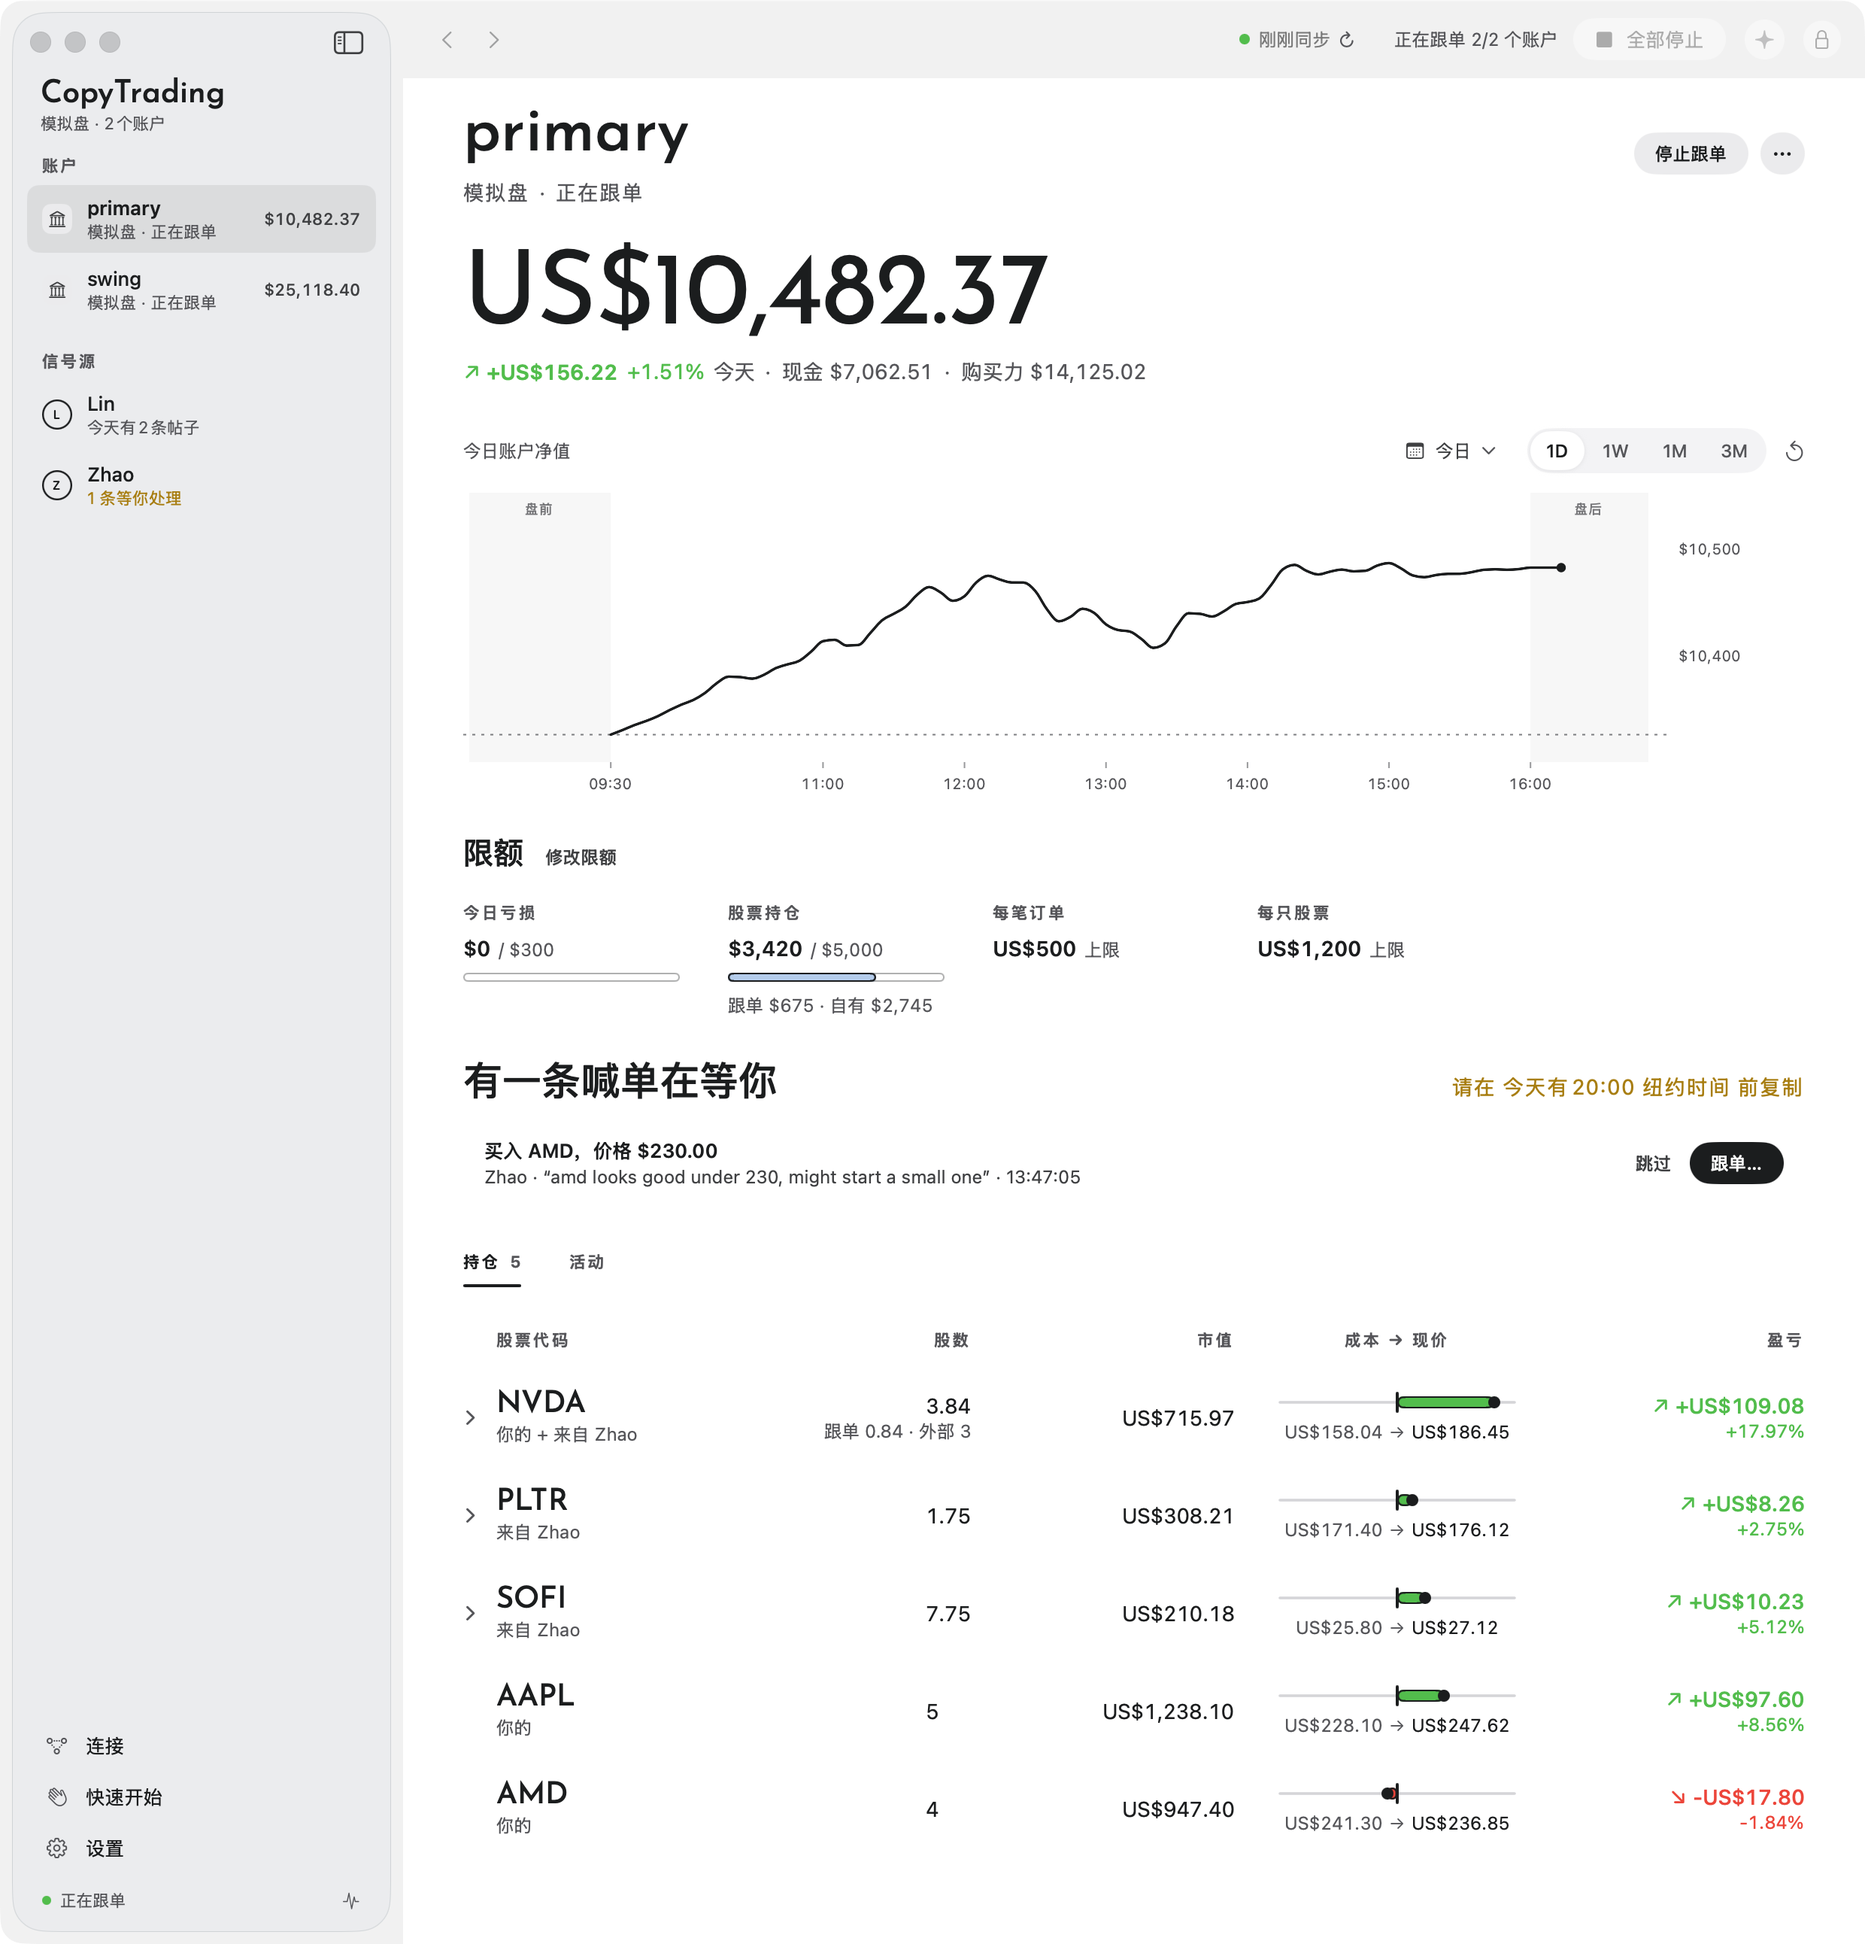
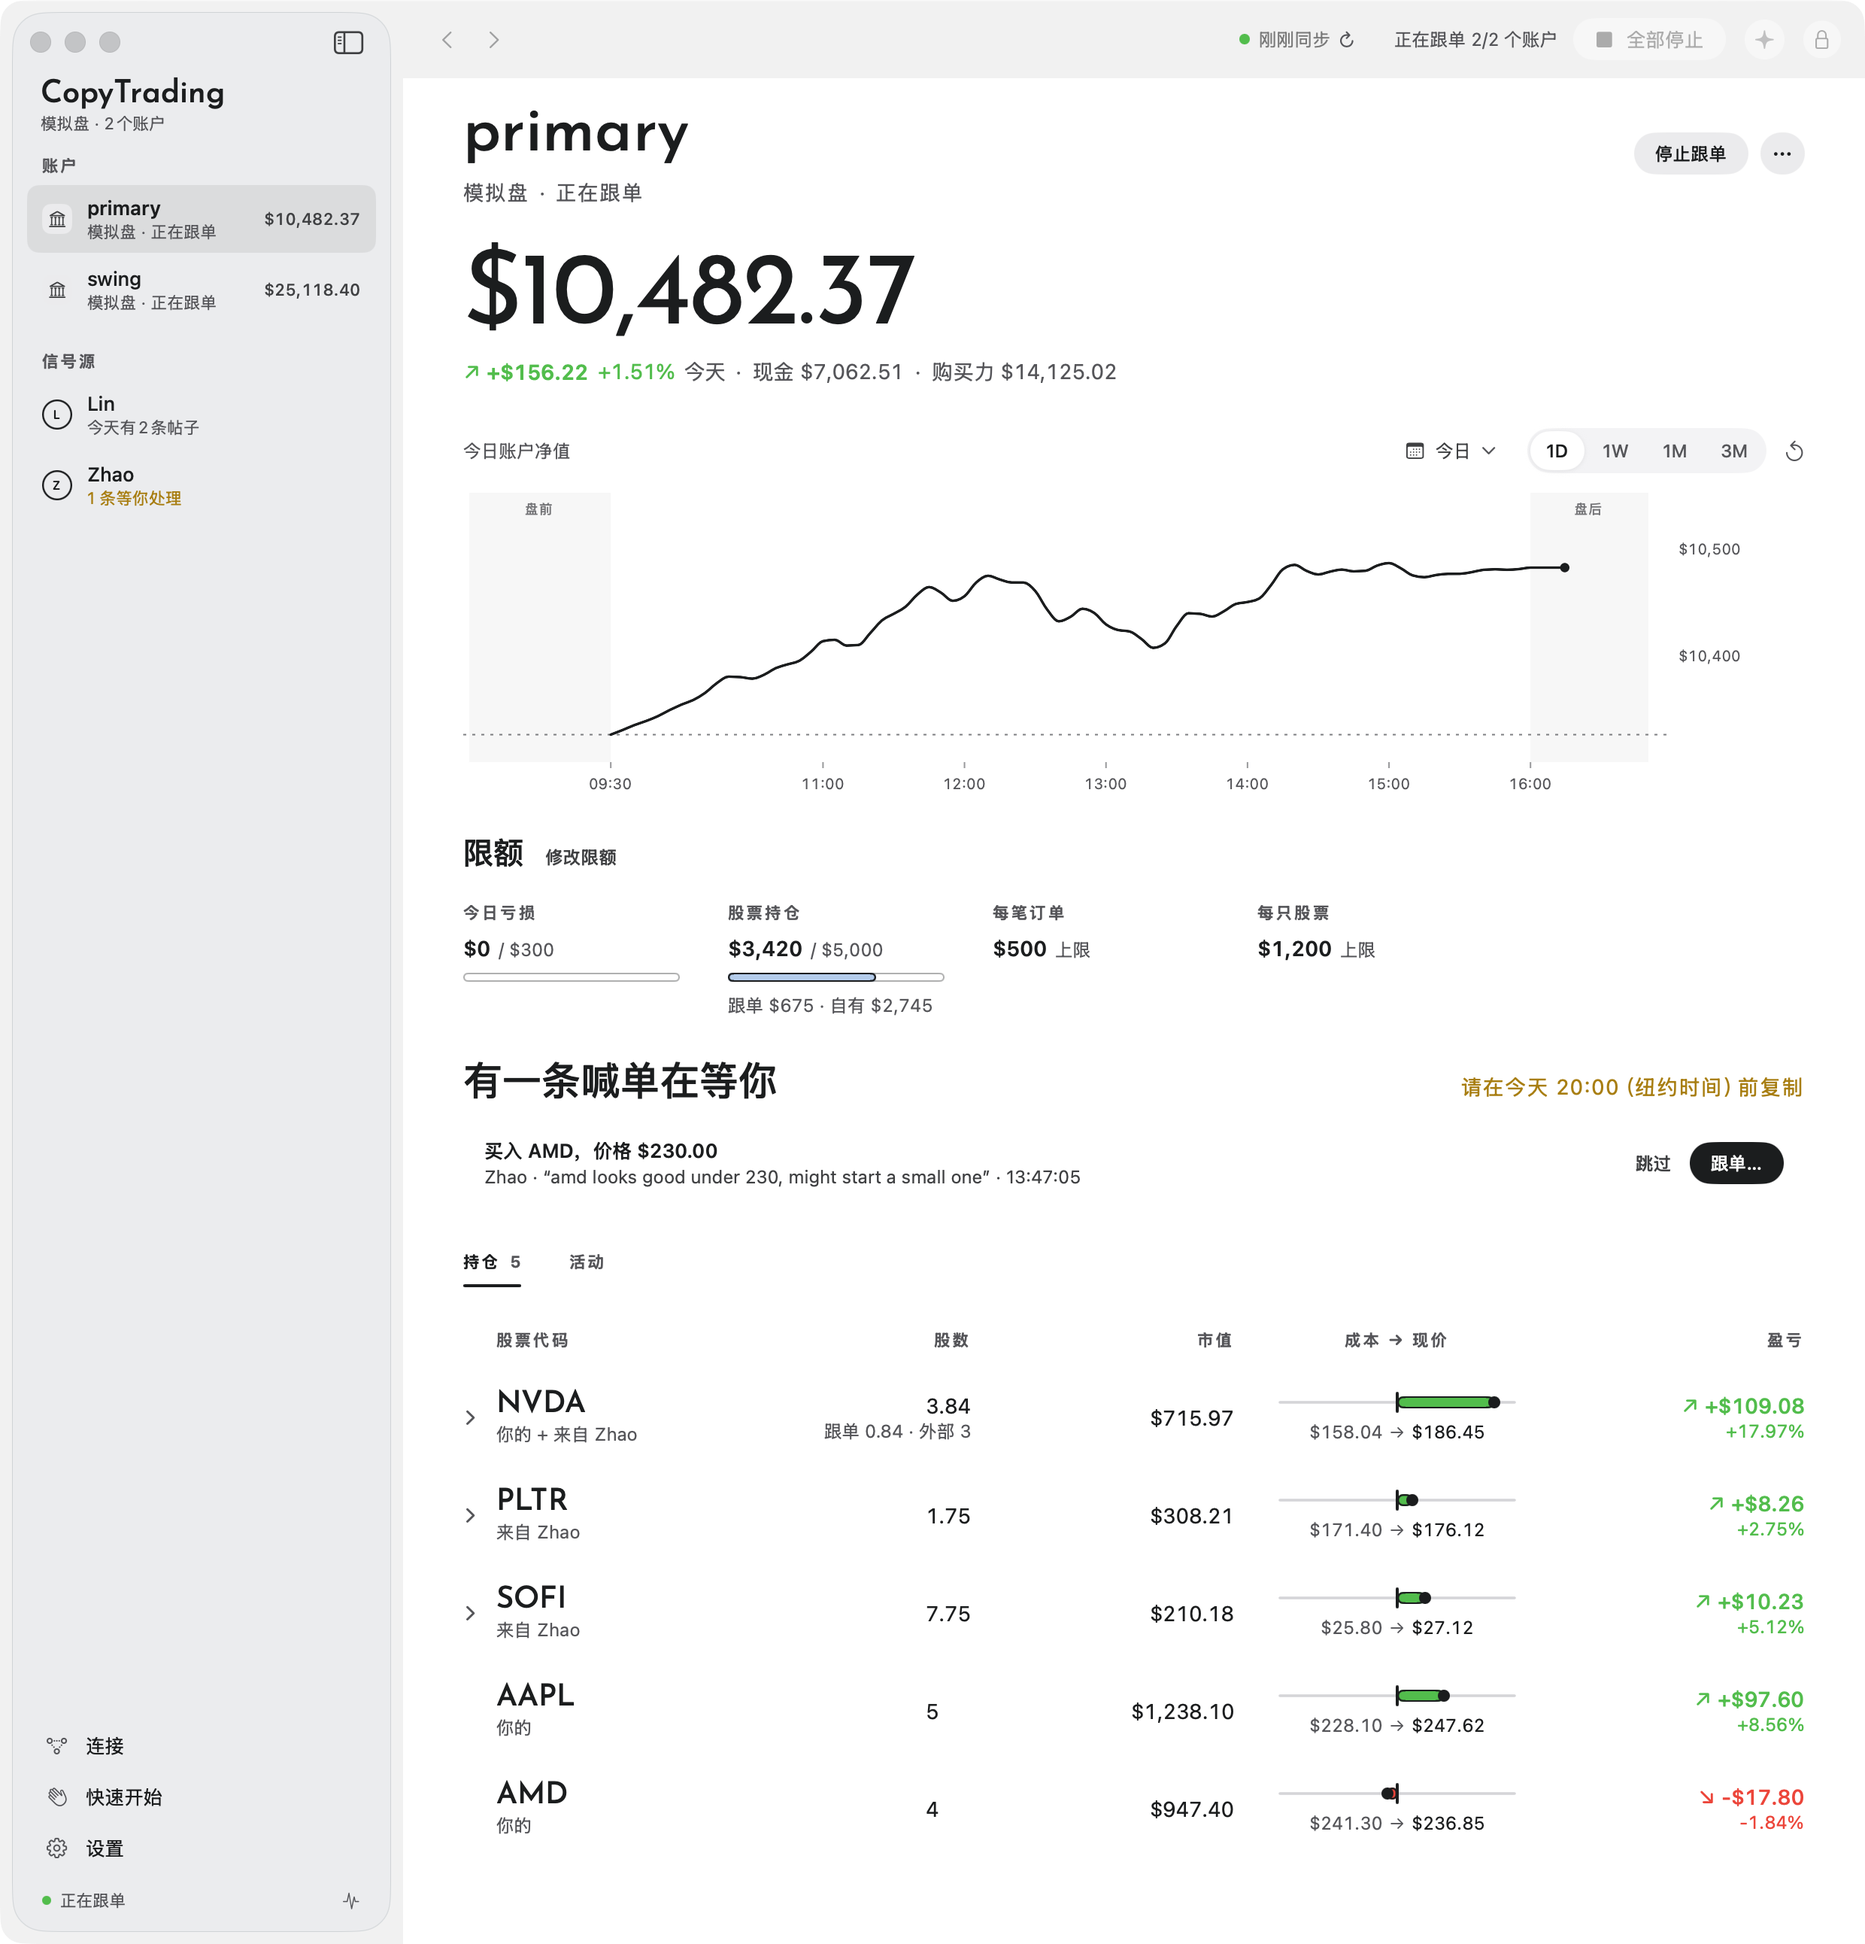
Chinese screens keep no English, and money always reads as $ (#93)
Fixes the 简体中文 problems the README screenshots showed:

- **Ignored posts**: an ignored post's outcome on the guru page reads
已忽略 instead of the raw English "Ignored". `Reason` now knows the
`ignored` status.
- **Holdings line**: one sentence per count ("Holding $650 in 3 stocks
from these calls" / "这些信号目前持有 $650，共 3 只股票"), so "3stocks" is gone.
- **Example actions**: the action words come from
`TradingInstructionAction.title`, reading 买入 / 减仓 / 清仓 instead of BUY /
REDUCE / CLOSE. The comparison row uses the same titles.
- **Deadlines**: clock and zone are passed separately, so each language
orders them its own way. English is unchanged ("8:00 PM ET today");
Chinese reads "请在今天 20:00（纽约时间）前复制".
- **Currency**: `MoneyText`, `PositionCostMark` and `AccountFeedRow`
format amounts as strings, the way `Humanize.usd` does. A Chinese page
now shows "$" everywhere, never "US$".
- **Screenshots**: the four `docs/assets/zh/*.png` are rendered again
from these sources and checked by eye. The English images are unchanged
because no English text changed.

Checks run: a new contract check reads each of these in Chinese
(`theGuruPageReadsInChinese`). The swift build with
`-strict-concurrency=complete -warnings-as-errors`, `make lint-swift`,
`make desktop-tests`, the catalog tests and `uvx pre-commit run
--all-files` all pass.

🤖 Generated with [Claude Code](https://claude.com/claude-code)
https://claude.ai/code/session_01FSmZjkTWfnTTjHLmHvuQGL

---------

diff --git a/app/Tests/CopyTradingContractTests/ActivityCardTests.swift b/app/Tests/CopyTradingContractTests/ActivityCardTests.swift
@@ -21,6 +21,34 @@ func runActivityCardTests() throws {
     try activityShowsOnlyTheChosenAccount()
     try aSellWithNoPriceReadsAsAtTheMarket()
     try yesterdaysPostsStopCountingAsTodayAtMidnight()
+    try theGuruPageReadsInChinese()
+}
+
+/// In 简体中文 the guru page and its examples keep no English: an ignored post, the holdings line,
+/// an example's action, and a waiting call's deadline in Chinese word order.
+@MainActor
+private func theGuruPageReadsInChinese() throws {
+    let language = AppLanguagePreference.shared
+    let original = language.language
+    defer { language.select(original) }
+    language.select(.simplifiedChinese)
+
+    let ignored = try SourceActivityBuilder().decision("ignore").destination("primary", status: "ignored").build()
+    let outcome = GuruAccountOutcome.outcomes(of: ignored, skipped: false).map(\.summary)
+    try #require(outcome == ["已忽略"], "an ignored post read \(outcome)")
+
+    let holding = L10n.string("Holding %@ in %lld stocks from these calls", "$650", Int64(3))
+    try #require(holding == "这些信号目前持有 $650，共 3 只股票", "the holdings line read \(holding)")
+
+    let actions = TradingInstructionAction.allCases.map(\.title)
+    try #require(actions == ["买入", "减仓", "清仓"], "an example's actions read \(actions)")
+
+    let deadline = WaitingCall.endOfTradingDay(of: try Date("2026-10-05T15:00:00Z", strategy: .iso8601))
+    let morning = try Date("2026-10-05T15:00:00Z", strategy: .iso8601)
+    let zone = TimeZone(identifier: "America/New_York")!
+    let chinese = Locale(identifier: "zh-Hans")
+    let copyBy = L10n.string("Copy by %@", TradingDeadlineText.text(deadline, now: morning, zone: zone, locale: chinese))
+    try #require(copyBy == "请在今天 20:00（纽约时间）前复制", "the deadline read \(copyBy)")
 }
 
 /// A count of today's posts asks about the moment it is drawn, so an app left open overnight stops

diff --git a/app/Sources/CopyTrading/Features/Activity/TradingDeadlineText.swift b/app/Sources/CopyTrading/Features/Activity/TradingDeadlineText.swift
@@ -11,15 +11,15 @@ enum TradingDeadlineText {
         calendar.timeZone = zone
         let clock = deadline.formatted(
             Date.FormatStyle(date: .omitted, time: .shortened, locale: locale, calendar: calendar, timeZone: zone))
-        let time = "\(clock) \(AppTime.shortName(zone, locale: locale))"
+        let zoneName = AppTime.shortName(zone, locale: locale)
         if calendar.isDate(deadline, inSameDayAs: now) {
-            return L10n.string("%@ today", time)
+            return L10n.string("Deadline today: %@ %@", clock, zoneName)
         }
         if let tomorrow = calendar.date(byAdding: .day, value: 1, to: now), calendar.isDate(deadline, inSameDayAs: tomorrow) {
-            return L10n.string("%@ tomorrow", time)
+            return L10n.string("Deadline tomorrow: %@ %@", clock, zoneName)
         }
         let day = deadline.formatted(
             Date.FormatStyle(locale: locale, calendar: calendar, timeZone: zone).weekday(.abbreviated))
-        return "\(day) \(time)"
+        return L10n.string("Deadline on a weekday: %@ %@ %@", day, clock, zoneName)
     }
 }

diff --git a/app/Sources/CopyTrading/DesignSystem/MoneyText.swift b/app/Sources/CopyTrading/DesignSystem/MoneyText.swift
@@ -26,7 +26,7 @@ struct MoneyText: View {
     @ViewBuilder private var content: some View {
         switch style {
         case .amount:
-            Text(value, format: amountFormat)
+            Text(value.formatted(amountFormat))
                 .font(font)
                 .monospacedDigit()
                 .contentTransition(.numericText(value: value.doubleValue))
@@ -37,7 +37,7 @@ struct MoneyText: View {
                         .imageScale(.small)
                         .fontWeight(.semibold)
                 }
-                Text(value, format: .currency(code: "USD").sign(strategy: .always(showZero: false)))
+                Text(value.formatted(.currency(code: "USD").sign(strategy: .always(showZero: false))))
                     .contentTransition(.numericText(value: value.doubleValue))
             }
             .font(font)

diff --git a/app/Sources/CopyTrading/Features/People/GuruHoldingsLine.swift b/app/Sources/CopyTrading/Features/People/GuruHoldingsLine.swift
@@ -29,9 +29,8 @@ struct GuruHoldingsLine: View {
             HStack(alignment: .firstTextBaseline, spacing: 10) {
                 Text(
                     L10n.string(
-                        "Holding %@ in %@ from these calls",
-                        cost.formatted(.currency(code: "USD").precision(.fractionLength(0))),
-                        Humanize.count(stocks, "stock"))
+                        stocks == 1 ? "Holding %@ in 1 stock from these calls" : "Holding %@ in %lld stocks from these calls",
+                        cost.formatted(.currency(code: "USD").precision(.fractionLength(0))), Int64(stocks))
                 )
                 .foregroundStyle(Palette.secondaryInk)
                 if cost > 0 {

diff --git a/app/Sources/CopyTrading/Features/Accounts/PositionCostMark.swift b/app/Sources/CopyTrading/Features/Accounts/PositionCostMark.swift
@@ -48,12 +48,12 @@ struct PositionCostMark: View {
             }
             .frame(height: 14)
             HStack(spacing: 4) {
-                Text(cost, format: .currency(code: "USD"))
+                Text(Humanize.usd(cost))
                     .foregroundStyle(Palette.tertiaryInk)
                 Image(systemName: "arrow.right")
                     .imageScale(.small)
                     .foregroundStyle(Palette.tertiaryInk)
-                Text(price, format: .currency(code: "USD"))
+                Text(Humanize.usd(price))
                     .foregroundStyle(Palette.ink)
             }
             .font(DesignTokens.caption)

diff --git a/app/Sources/CopyTrading/Features/Connections/ExampleEditorSection.swift b/app/Sources/CopyTrading/Features/Connections/ExampleEditorSection.swift
@@ -40,7 +40,7 @@ struct ExampleEditorSection: View {
             SheetRow(title: L10n.string("Expected action")) {
                 SheetChoices(
                     label: L10n.string("Expected action"),
-                    choices: TradingInstructionAction.allCases.map { ($0, Humanize.code($0.rawValue)) },
+                    choices: TradingInstructionAction.allCases.map { ($0, $0.title) },
                     selection: $example.expectedAction, identifier: "example.action")
             }
             Grid(alignment: .leading, horizontalSpacing: 24, verticalSpacing: 0) {

diff --git a/app/Sources/CopyTrading/Features/Connections/ExampleComparisonRow.swift b/app/Sources/CopyTrading/Features/Connections/ExampleComparisonRow.swift
@@ -33,7 +33,7 @@ struct ExampleComparisonRow: View {
                     Text(
                         L10n.string(
                             "%@ %@ · fraction %@",
-                            L10n.string(Humanize.code(example.expectedAction.rawValue)), example.expectedSymbol,
+                            example.expectedAction.title, example.expectedSymbol,
                             example.expectedFraction.map(Humanize.fraction) ?? L10n.string("none")
                         )
                     )

diff --git a/app/Sources/CopyTrading/Features/Connections/TradingInstructionAction+Title.swift b/app/Sources/CopyTrading/Features/Connections/TradingInstructionAction+Title.swift
@@ -1,0 +1,12 @@
+import DesktopCore
+
+extension TradingInstructionAction {
+    /// What an example expects the reader to do, in the app's language: Buy, Reduce, or Close.
+    @MainActor var title: String {
+        switch self {
+        case .buy: L10n.string("Buy")
+        case .reduce: L10n.string("Reduce a position")
+        case .close: L10n.string("Close a position")
+        }
+    }
+}

diff --git a/app/Sources/CopyTrading/Features/Accounts/AccountFeedRow.swift b/app/Sources/CopyTrading/Features/Accounts/AccountFeedRow.swift
@@ -63,7 +63,7 @@ struct AccountFeedRow: View {
             }
         } trailing: {
             if item.isTrade, let amount = Decimal(engine: item.amount) {
-                Text(amount, format: .currency(code: "USD"))
+                Text(Humanize.usd(amount))
                     .font(Self.figure)
                     .monospacedDigit()
                     .foregroundStyle(Palette.ink)

diff --git a/app/Sources/CopyTrading/DesignSystem/Reason.swift b/app/Sources/CopyTrading/DesignSystem/Reason.swift
@@ -91,6 +91,7 @@ enum Reason {
         "provider_model_not_found": "The model service has no model by that name",
         "out_of_order": "Arrived out of order",
         "review_required": "Needs your review",
+        "ignored": "Ignored",
         "halted": "Copying was halted",
         "session_changed": "The market session changed",
         "processing_stopped": "Copying is paused",

diff --git a/app/Tests/CopyTradingContractTests/TradingInstructionAction+Title.swift b/app/Tests/CopyTradingContractTests/TradingInstructionAction+Title.swift
@@ -1,0 +1,1 @@
+../../Sources/CopyTrading/Features/Connections/TradingInstructionAction+Title.swift

diff --git a/engine/src/copytrading_engine/assistant/wording.py b/engine/src/copytrading_engine/assistant/wording.py
@@ -61,6 +61,7 @@ REASONS = {
     "provider_model_not_found": "The model service has no model by that name",
     "out_of_order": "Arrived out of order",
     "review_required": "Needs your review",
+    "ignored": "Ignored",
     "halted": "Copying was halted",
     "session_changed": "The market session changed",
     "processing_stopped": "Copying is paused",
